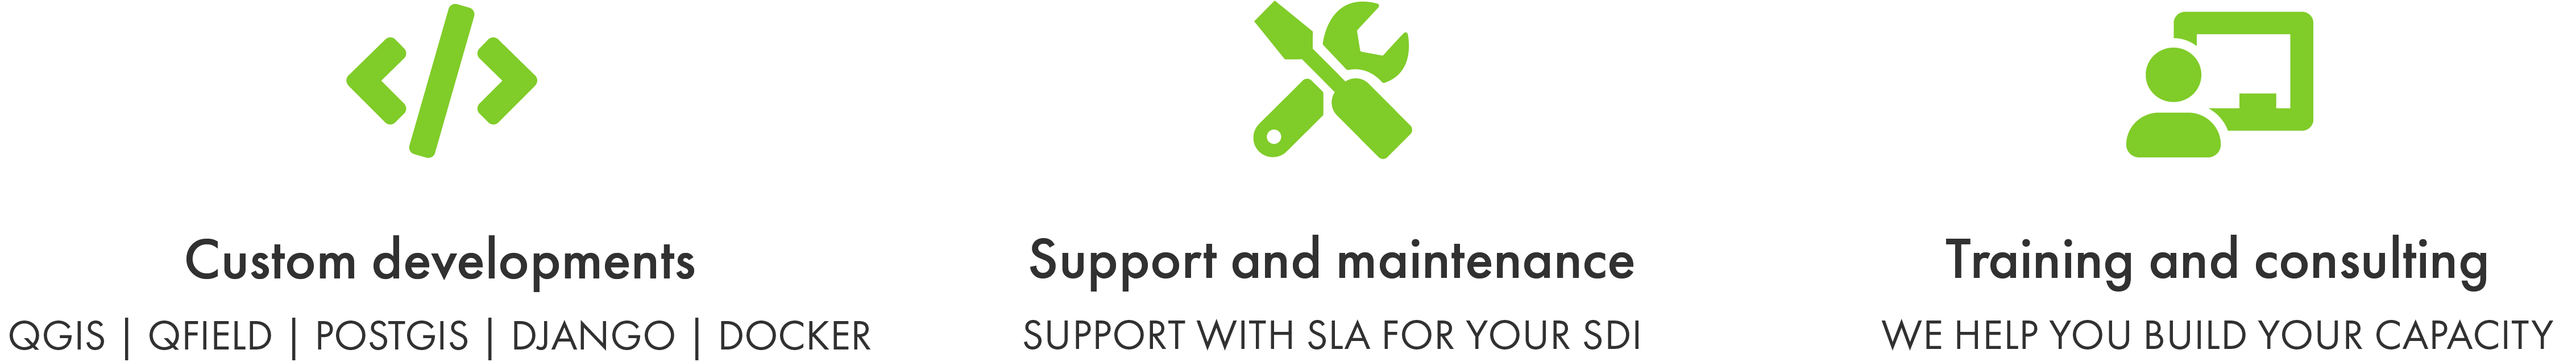
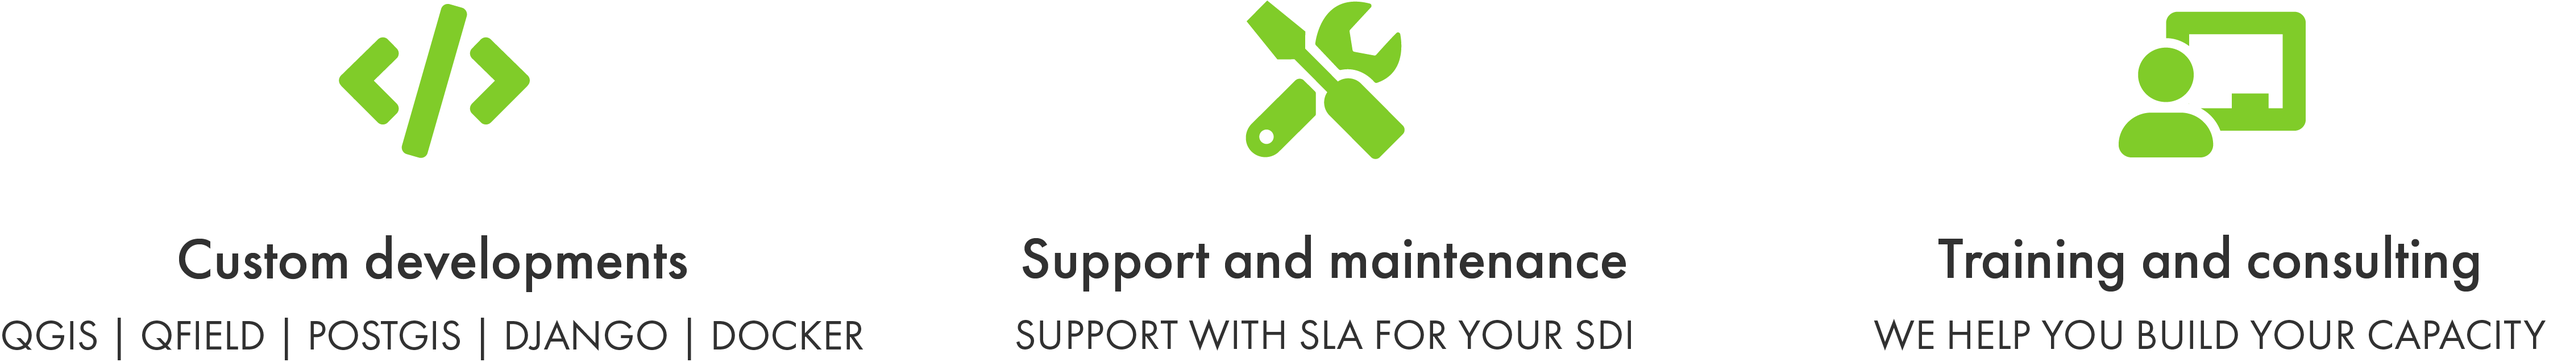
Update from https://github.com/opengisch/teaching-and-talks/commit/a50691e21fde06d43aed259eef46418d417a7334

diff --git a/opengisch-about-us/intro.html b/opengisch-about-us/intro.html
@@ -63,7 +63,7 @@
 # NUMBERS?
 
 <!-- .slide: class="custom-left-pic" -->
-![whatdowedo](assets/numbers.png)
+<img src="assets/10y-numbers.png" style="width: 50%; height: auto; justify-content: center; display: block;" alt="10ynumbers">
 
 ---
 
@@ -132,6 +132,9 @@
 - @OPENGISch
 - @QFieldForQGIS
 - <a href="https://opengis.ch/blog" style="color: var(--opengisch-green); font-weight: bold; text-decoration: none;">opengis.ch/blog</a>
+
+
+[def]: assets/10y-numbers.png
 
           </textarea>
         </section>
